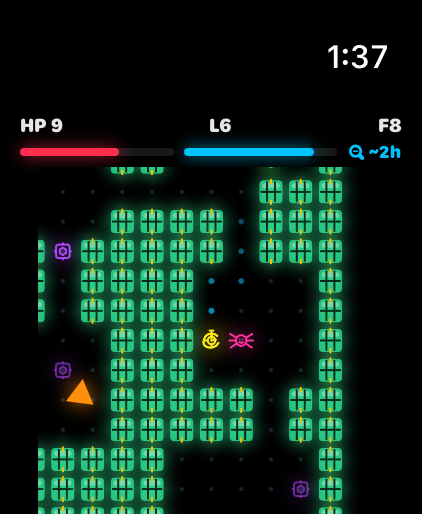
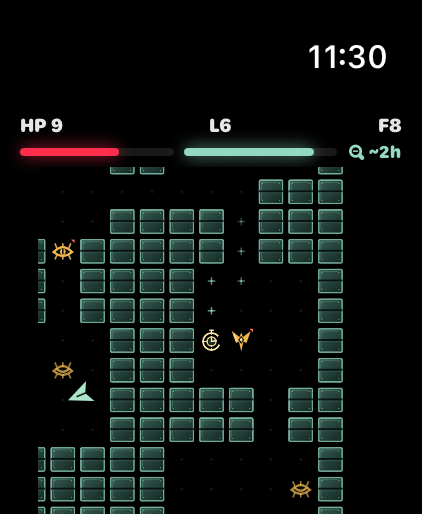
Update Time to Rogue website for the 1.2.0 release

diff --git a/pages/games/timetorogue/index.vue b/pages/games/timetorogue/index.vue
@@ -35,15 +35,25 @@
         </a>
       </header>
 
+      <section class="panel" aria-labelledby="release-heading">
+        <div class="kicker">// NEW_IN_1.2.0</div>
+        <h2 id="release-heading" class="release-heading">More ways to make a run your own</h2>
+        <ul class="feature-list">
+          <li>Choose perks as you descend, and face a guardian every five floors</li>
+          <li>A fresh dungeon look, with free themes earned through deeper runs and Watch play</li>
+          <li>No more three-reverse limit per run, use your saved charges before time runs out</li>
+        </ul>
+      </section>
+
       <!-- Core Gameplay -->
       <section class="panel">
         <div class="kicker">// CORE_GAMEPLAY</div>
         <ul class="feature-list">
-          <li>Swipe to move, fight, and descend through a neon dungeon</li>
+          <li>Swipe to move, fight, and descend through a dungeon that changes with every run</li>
           <li>Movement, attacks, and waiting spend focus, and your view narrows as it drains</li>
           <li>Focus recovers over <span class="hl">real-world time</span>, so knowing when to walk away is the skill</li>
           <li>Find the stairs down and dive deeper, where the floors grow larger and more dangerous</li>
-          <li>Every run is different, and death is permanent. A <span class="hl">time-reverse</span> can undo a fatal move, if you've still got one when it counts</li>
+          <li>A <span class="hl">time-reverse</span> can undo a fatal move, if you have a charge and your rescue window is still open</li>
         </ul>
       </section>
 
@@ -64,8 +74,8 @@
             <p>Act on empty focus and you'll fight half-blind and take damage. Rest too long and the danger rises. Read the moment.</p>
           </div>
           <div class="tile">
-            <h3>One rewind a day</h3>
-            <p>A daily <span class="hl">time-reverse</span> lets you undo a single fatal move. Bank it, or spend it to save a deep run.</p>
+            <h3>Bank your second chances</h3>
+            <p>Earn one <span class="hl">time-reverse</span> each day you play and hold up to 14. Each charge rewinds one turn on your current floor, with no per-run cap. Spend them before the run's deadline.</p>
           </div>
         </div>
       </section>
@@ -83,17 +93,33 @@
         </ul>
       </section>
 
+      <section class="panel">
+        <div class="kicker">// MAKE_THE_NEXT_MOVE</div>
+        <p class="release-copy">Rest, but don't abandon the dungeon. Take a turn within 24 hours of reaching maximum Focus (140%), even if you've cleared the floor. Opening the app, using an item, or reversing does not extend that deadline.</p>
+      </section>
+
+      <section class="panel">
+        <div class="kicker">// EARN_YOUR_LOOK</div>
+        <ul class="feature-list">
+          <li><span class="hl">Dead Signal</span> is your new starting look</li>
+          <li>Reach Floor 5 to unlock <span class="hl">Ink &amp; Ember</span>, and Floor 10 for <span class="hl">Pocket Crypt</span></li>
+          <li>Take a gameplay turn on Apple Watch to unlock <span class="hl">Classic</span>, a traditional ASCII dungeon, on both devices</li>
+          <li>Earned themes stay unlocked between runs. Choose your look from Themes on the title screen</li>
+        </ul>
+      </section>
+
       <!-- Supporter Pack -->
       <section class="panel supporter-panel">
         <div class="kicker">// OPTIONAL_SUPPORTER_PACK</div>
         <div class="supporter-copy">
           <div class="supporter-heart" aria-hidden="true">♥</div>
           <div>
-            <h2>Enter the Timekeeper dungeon</h2>
+            <h2>Enter the Clockwork Reliquary</h2>
             <p>
-              The full game is free. The optional, one-time Supporter Pack unlocks the clockwork
-              Timekeeper dungeon theme and adds a supporter heart to the title screen. It changes
-              the look, never the rules.
+              The full game is free. The optional, one-time Supporter Pack unlocks the
+              Clockwork Reliquary dungeon theme and adds a supporter heart to the title screen.
+              It changes the look, never the rules. Already own the pack? This refreshed theme
+              replaces Timekeeper at no additional cost.
             </p>
           </div>
         </div>
@@ -107,19 +133,19 @@
             <div class="phone-frame">
               <img src="~/assets/timetorogue_screenshots/iphone_gameplay.png" alt="Time to Rogue gameplay on iPhone" />
             </div>
-            <figcaption>One shared run</figcaption>
+            <figcaption>Play in glances</figcaption>
           </figure>
           <figure class="phone-shot">
             <div class="phone-frame">
-              <img src="~/assets/timetorogue_screenshots/iphone_timekeeper.png" alt="The Timekeeper dungeon theme on iPhone" />
+              <img src="~/assets/timetorogue_screenshots/iphone_low_focus.png" alt="The same dungeon view narrowed by low Focus on iPhone" />
             </div>
-            <figcaption>Timekeeper theme</figcaption>
+            <figcaption>Focus is your sight</figcaption>
           </figure>
           <figure class="phone-shot">
             <div class="phone-frame">
-              <img src="~/assets/timetorogue_screenshots/iphone_title.png" alt="Time to Rogue title screen on iPhone" />
+              <img src="~/assets/timetorogue_screenshots/iphone_perks.png" alt="Choosing between First Strike and Field Medic perks on iPhone" />
             </div>
-            <figcaption>Built for quick glances</figcaption>
+            <figcaption>Shape your run</figcaption>
           </figure>
         </div>
       </section>
@@ -193,17 +219,15 @@ export default {
         '01_gameplay',
         '02_close_call',
         '03_death',
-        '04_complication',
-        '05_time_reverse',
-        '06_title'
+        '04_guardian',
+        '05_deep_floor'
       ],
       screenshotAlts: [
-        'Descending a neon dungeon on your wrist',
+        'A roguelike you play in glances',
         'Low focus, cornered, push your luck',
         'The maze took its turns while you were away',
-        'A complication that shows your focus recovering',
-        'Spend a time-reverse to undo a fatal move',
-        'Title screen, how deep can you get?'
+        'Defeat the guardian to open the stairs',
+        'How deep can you get?'
       ]
     }
   },
@@ -443,6 +467,19 @@ export default {
 
 .kicker.center {
   text-align: center;
+}
+
+.release-heading {
+  color: #7dd3fc;
+  font-size: 1.2rem;
+  font-weight: 700;
+  margin-bottom: 1rem;
+}
+
+.release-copy {
+  color: #dbe4f0;
+  font-size: 1rem;
+  line-height: 1.6;
 }
 
 .feature-list {

diff --git a/pages/games/timetorogue/support/index.vue b/pages/games/timetorogue/support/index.vue
@@ -69,18 +69,57 @@
               turns in real time, and from then on an enemy can reach you even while the app is closed.
             </p>
             <p class="text-sm text-gray-400">
-              Concretely: the maze stays still until your focus is full, <strong>up to about 10 hours</strong>
-              if you left exhausted, or as little as a couple of hours if you left rested. So resting is safe;
-              lingering fully-rested is what gets dangerous. Check in before you're cornered.
+              From empty, Focus takes about <strong>eight hours to reach 100%</strong>, then another
+              <strong>two hours to reach its 140% maximum</strong>. The maze stays still during recovery,
+              then starts taking turns. If you leave partly rested, the safe recovery period is shorter.
             </p>
           </div>
 
           <div class="faq-item mb-4">
             <h3 class="text-lg font-semibold mb-2">What is the time-reverse, and how do I use it?</h3>
             <p>
-              You earn one free time-reverse each day you play (up to a small cap). If a move would end
-              your run, the death screen gives you the option to spend a reverse and undo it. If you'd
-              rather keep the charge, just choose <strong>End Run</strong> instead. It's always your call.
+              Earn one free time-reverse each calendar day you play and hold up to <strong>14 charges</strong>.
+              In version 1.2.0 and later, there is <strong>no per-run limit</strong>. Each use spends one
+              charge to rewind one turn on your current floor, and cannot undo a descent. Use Reverse
+              in the iPhone action buttons or the Watch's hold menu, or use it from the death screen
+              while your rescue window is open.
+            </p>
+          </div>
+
+          <div class="faq-item mb-4">
+            <h3 class="text-lg font-semibold mb-2">When does a run expire?</h3>
+            <p class="mb-2">
+              In version 1.2.0 and later, take a turn within <strong>24 hours after Focus reaches its
+              140% maximum</strong>. From empty Focus, that's at most about 34 hours without a turn.
+              This applies even on a cleared floor. Move, attack, wait, or descend to set a new
+              deadline based on your remaining Focus. Just opening the app, choosing a perk,
+              using an item, or reversing does not extend it. Check the in-game countdown.
+            </p>
+            <p>
+              Dying during active play gives you 24 hours from death to use a reverse. A death while
+              you're away keeps the run's existing deadline. Once the deadline expires, the run is
+              over permanently and cannot be reversed.
+            </p>
+          </div>
+
+          <div class="faq-item mb-4">
+            <h3 class="text-lg font-semibold mb-2">What are perks and guardians?</h3>
+            <p>
+              On Floors 2, 5, and 8, choose a perk that lasts for the rest of that run. Perks can improve
+              healing, Focus Cells, or your opening attack, without taking an item slot. Every fifth
+              floor has a guardian, defeat it to unseal the stairs and continue deeper.
+            </p>
+          </div>
+
+          <div class="faq-item mb-4">
+            <h3 class="text-lg font-semibold mb-2">How do I unlock and change themes?</h3>
+            <p>
+              Dead Signal is available from the start. Reach Floor 5 for <strong>Ink &amp; Ember</strong>
+              and Floor 10 for <strong>Pocket Crypt</strong>. Take a successful move, attack, wait, or
+              descent on Apple Watch to earn the <strong>Classic ASCII theme</strong>. Existing best
+              floors count toward the floor rewards. Earned themes stay unlocked between runs and
+              sync to your paired device. Select a look in <strong>Themes</strong> on the title screen,
+              you can use a different look on each device. Themes do not change gameplay.
             </p>
           </div>
 
@@ -129,17 +168,19 @@
             <h3 class="text-lg font-semibold mb-2">Is my run lost if I close the app?</h3>
             <p>
               No. Your run is saved and continues in real time. Closing the app doesn't end your run,
-              but remember the dungeon can begin taking its turns while you're gone.
+              but remember the dungeon can begin taking its turns while you're gone, and the run
+              can expire if you miss its deadline. Update both iPhone and Watch to use the same rules.
             </p>
           </div>
 
           <div class="faq-item mb-4">
             <h3 class="text-lg font-semibold mb-2">What does the Supporter Pack include?</h3>
             <p>
-              The Supporter Pack is an optional, one-time purchase. It unlocks the clockwork Timekeeper
+              The Supporter Pack is an optional, one-time purchase. It unlocks the Clockwork Reliquary
               dungeon theme and adds a supporter heart to the title screen. It does not change gameplay,
               difficulty, focus recovery, or time-reverse availability. The complete game remains free.
-              If a previous purchase is missing, open <strong>Supporter Pack</strong> from the title screen
+              Clockwork Reliquary replaces the previous Timekeeper look, existing owners do not need
+              to buy it again. If a previous purchase is missing, open <strong>Supporter Pack</strong> from the title screen
               and tap <strong>Restore Purchases</strong>.
             </p>
           </div>

diff --git a/test/TimeToRogueContent.spec.js b/test/TimeToRogueContent.spec.js
@@ -1,0 +1,29 @@
+const feed = require('../static/games/timetorogue/version.json')
+
+describe('Time to Rogue release advice', () => {
+  test('reverses use charges instead of the retired per-run cap', () => {
+    const tip = feed.tips.find(text => text.includes('each reverse rewinds'))
+    expect(tip).toContain('no per-run limit')
+    expect(tip).toContain('hold up to 14')
+    expect(tip).toContain("run's deadline")
+    expect(feed.tips.join(' ')).not.toContain('at most three times per run')
+  })
+
+  test('the shared feed identifies the version with the new deadline rules', () => {
+    const changedRules = feed.tips.filter(text =>
+      text.includes('no per-run limit') || text.includes('24 hours'))
+    expect(changedRules).toHaveLength(2)
+    changedRules.forEach(text => expect(text).toContain('In version 1.2.0 and later'))
+    const deadline = changedRules.find(text => text.includes('24 hours'))
+    expect(deadline).toContain('maximum Focus (140%)')
+    expect(deadline).toContain('even on a cleared floor')
+    expect(deadline).toContain('Opening the app, using items, and reversing do not extend')
+  })
+
+  test('the release announcement is dated and targets the iOS news reader', () => {
+    const release = feed.news.find(item => item.title === 'Time to Rogue 1.2.0 is here')
+    expect(release.platform).toBe('ios')
+    expect(Number.isNaN(Date.parse(release.date))).toBe(false)
+    expect(release.link_url).toBe('https://apps.apple.com/us/app/time-to-rogue/id6786902468')
+  })
+})

diff --git a/assets/timetorogue_screenshots/README.md b/assets/timetorogue_screenshots/README.md
@@ -1,0 +1,17 @@
+# Time to Rogue website screenshots
+
+Updated for the 1.2.0 release on September 11, 2026. These are native simulator
+captures from the game's approved release screenshot work, not mockups.
+The local source folders were named 1.3 before the release was numbered 1.2.0.
+
+Current gallery:
+
+- `iphone_gameplay.png`, `iphone_low_focus.png`, `iphone_perks.png`: the raw
+  iPhone captures numbered 01, 02, and 03 in the game's `screenshots/app-store-1.3/raw/iphone-6.9-inch/`.
+- `01_gameplay.png`, `02_close_call.png`, `03_death.png`, `04_guardian.png`,
+  `05_deep_floor.png`: the five approved Watch captures, in order, from
+  `screenshots/time-to-rogue-1.3-gameplay-screenshots/watch-ultra-49mm/`.
+
+All current gallery images use the default Dead Signal theme and emphasize the
+game, not paid cosmetics. Older images remain here for historical reuse but are
+not referenced by the current gallery.
